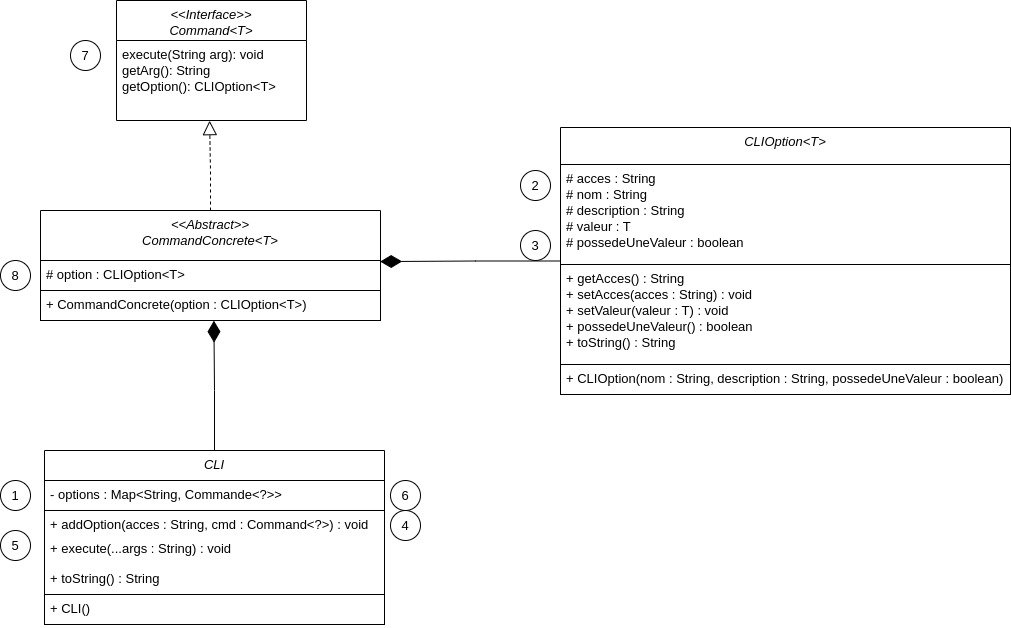
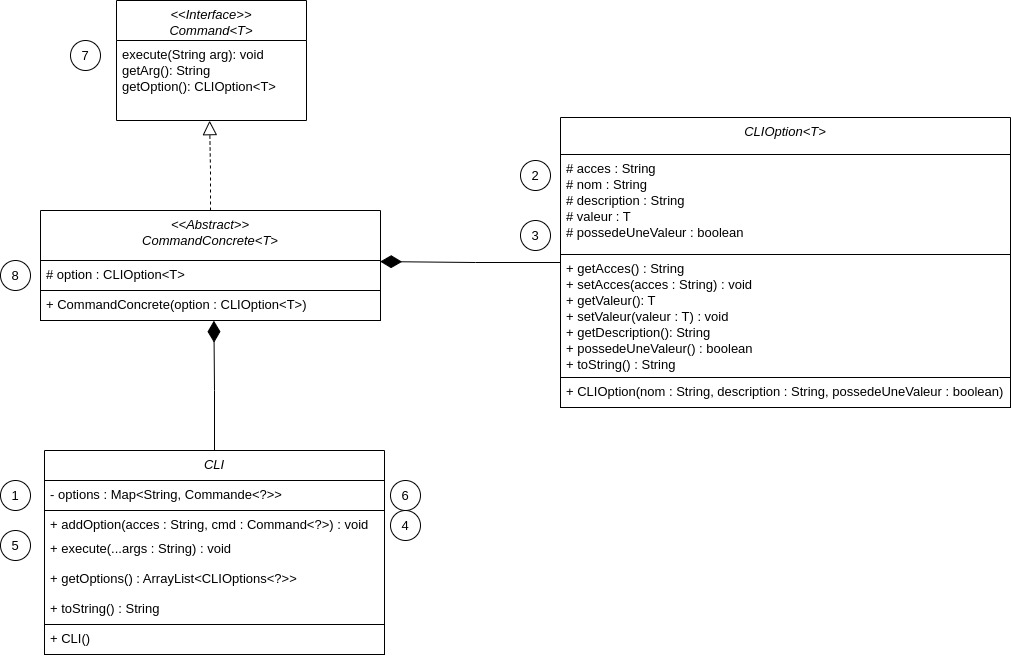
ajout exo6

diff --git a/exo_6/XMLFactory.java b/exo_6/XMLFactory.java
@@ -1,0 +1,45 @@
+package exo_6;
+
+import java.io.FileWriter;
+import java.io.IOException;
+import java.util.ArrayList;
+
+import org.jdom2.*;
+import org.jdom2.output.*;
+
+import cli_framework.CLI;
+import cli_framework.CLIOption;
+
+public class XMLFactory {	
+	public static void buildFile(CLI cli) {
+		Element racine = new Element("cli");
+		ArrayList<CLIOption<?>> options = cli.getOptions();
+		
+		options.forEach((opt) -> {
+			Element argument = new Element("argument");
+			argument.setAttribute("acces", opt.getAcces());
+			argument.setText(opt.getDescription());
+			if (opt.possedeUneValeur()) {
+				argument.setAttribute("nb", opt.getValeur().toString());
+			}
+			racine.addContent(argument);
+		});
+		
+		System.out.println(racine.toString());
+		
+		// CREER UN FICHIER XML
+		
+		/*Document document = new Document();
+		document.setContent(racine);
+		
+		try {
+			FileWriter fileWriter = new FileWriter("cli-auto.xml");
+			XMLOutputter outputter = new XMLOutputter();
+			outputter.setFormat(Format.getPrettyFormat());
+			outputter.output(document, fileWriter);
+			outputter.output(document, System.out);
+		} catch (IOException e) {
+			e.printStackTrace();
+		}*/
+	}
+}

diff --git a/exo_5/CLIAuto.java b/exo_5/CLIAuto.java
@@ -1,12 +1,12 @@
 package exo_5;
 
 import cli_framework.CLI;
+import exo_6.XMLFactory;
 
 public class CLIAuto {
 	public static void main(String... args) {
 		Configuration configuration = new Configuration();
-		CLIOutils cliOutils = new CLIOutils();
-		CLI cli = cliOutils.fromClass(configuration);
+		CLI cli = CLIOutils.fromClass(configuration);
 		
 		System.out.println("1ère éxécution\n");
 		cli.execute("I", "15.5", "M", "E", ".0251", "A", "12.5");
@@ -19,5 +19,9 @@ public class CLIAuto {
 		System.out.println("3ème éxécution\n");
 		cli.execute("m", "M", "58", "E", ".151", "I", "148", "A", "28");
 		System.out.println(cli);
+		
+		// EXERCICE 6
+		System.out.println("-- XML --\n");
+		XMLFactory.buildFile(cli);
 	}
-}
+} 

diff --git a/cli_framework/CLI.java b/cli_framework/CLI.java
@@ -1,5 +1,7 @@
 package cli_framework;
 
+import java.util.ArrayList;
+import java.util.Collection;
 import java.util.HashMap;
 import java.util.Map;
 
@@ -29,6 +31,13 @@ public class CLI {
 				}
 			}
 		}
+	}
+	
+	public ArrayList<CLIOption<?>> getOptions() {
+		Collection<Command<?>> cmds = this.options.values();
+		ArrayList<CLIOption<?>> options = new ArrayList<CLIOption<?>>();
+		cmds.forEach((cmd) -> options.add(cmd.getOption()));
+		return options;
 	}
 	
 	@Override

diff --git a/exo_5/CLIOutils.java b/exo_5/CLIOutils.java
@@ -9,7 +9,7 @@ import exo_3.ParseDoubleCommand;
 import exo_3.ParseIntCommand;
 
 public class CLIOutils {
-	public CLI fromClass(Configuration configuration) {
+	public static CLI fromClass(Configuration configuration) {
 		Class<? extends Configuration> classConf = configuration.getClass();
 		Field[] fields = classConf.getFields();
 		

diff --git a/cli_framework/CLIOption.java b/cli_framework/CLIOption.java
@@ -21,6 +21,14 @@ public class CLIOption<T> {
 		this.acces = acces;
 	}
 	
+	public String getDescription( ) {
+		return this.description;
+	}
+	
+	public T getValeur() {
+		return this.valeur;
+	}
+	
 	public void setValeur(T valeur) {
 		this.valeur = valeur;
 	}
